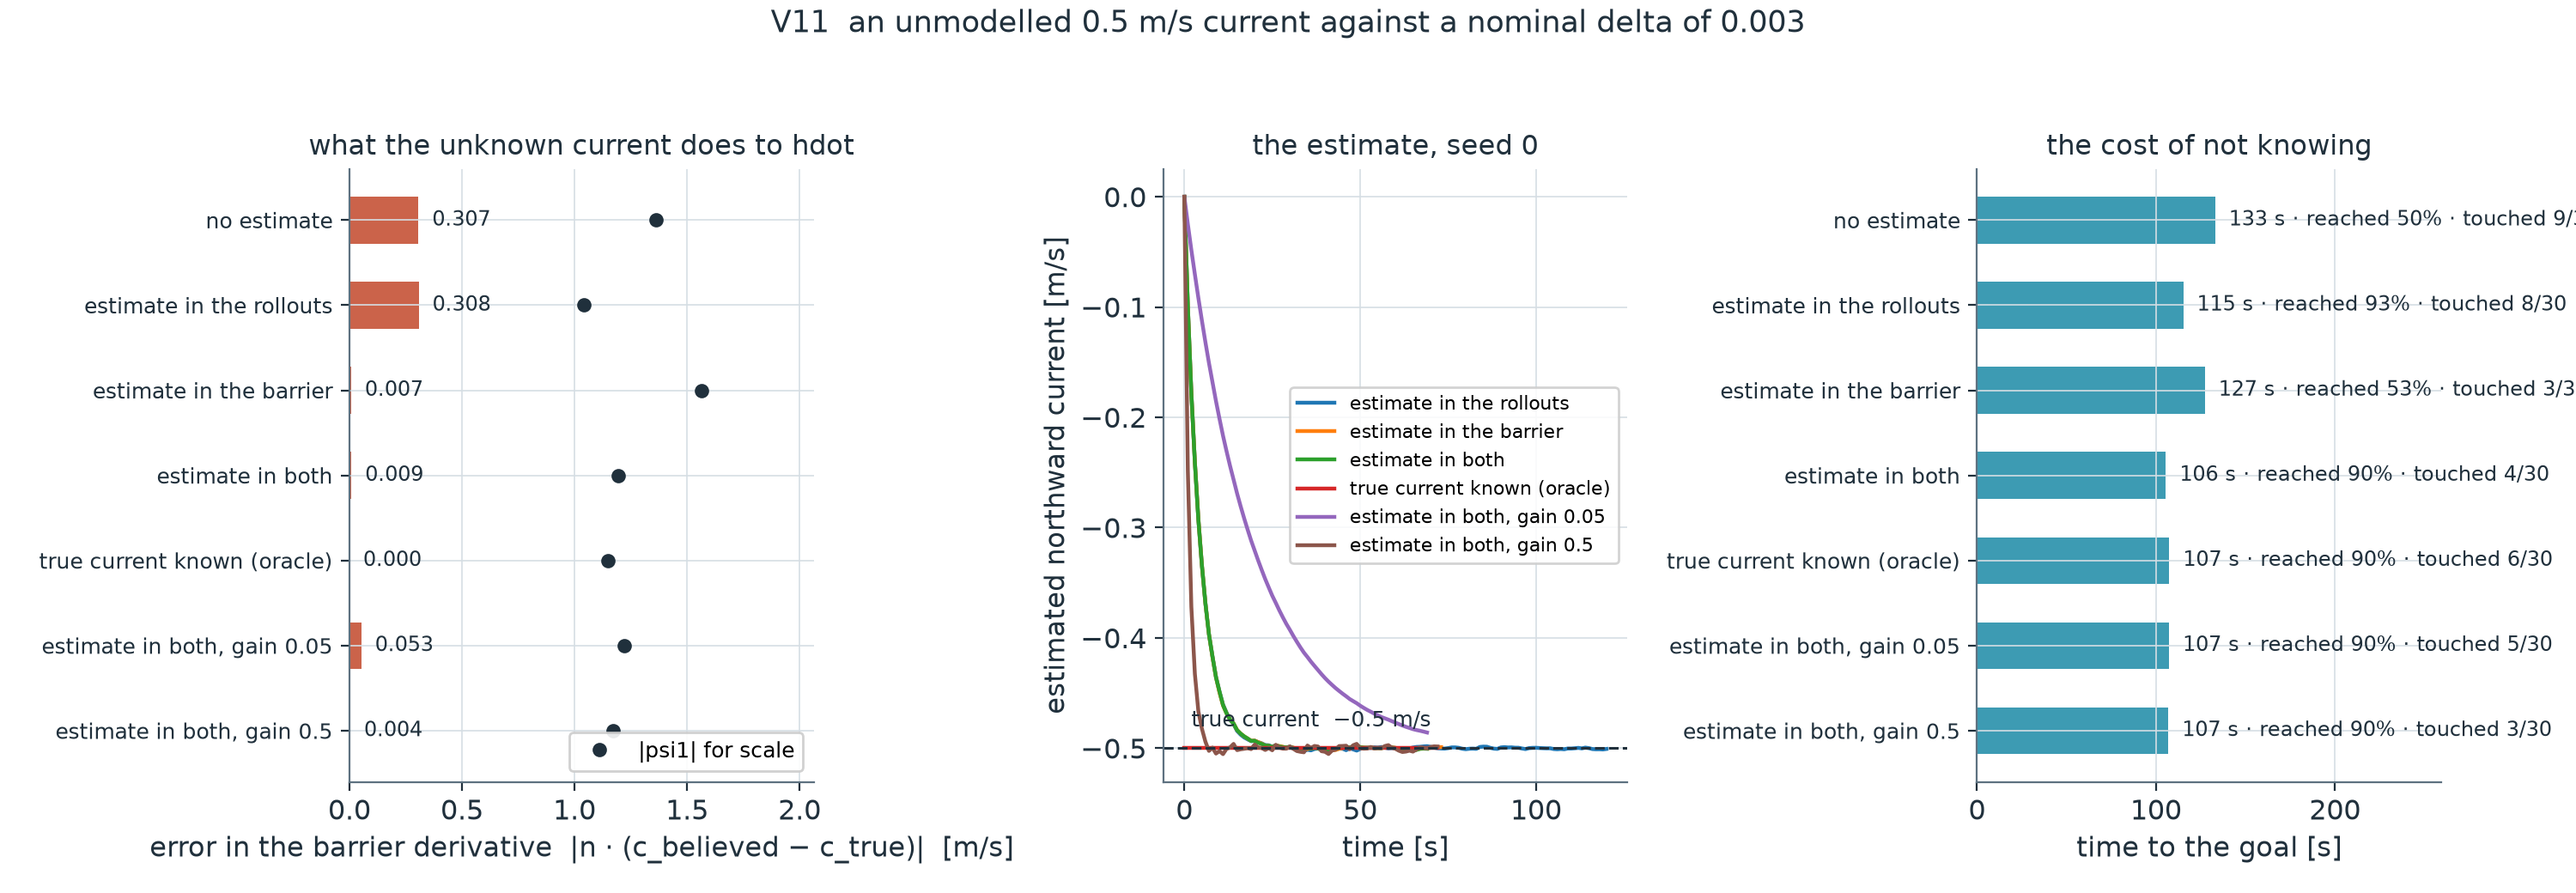
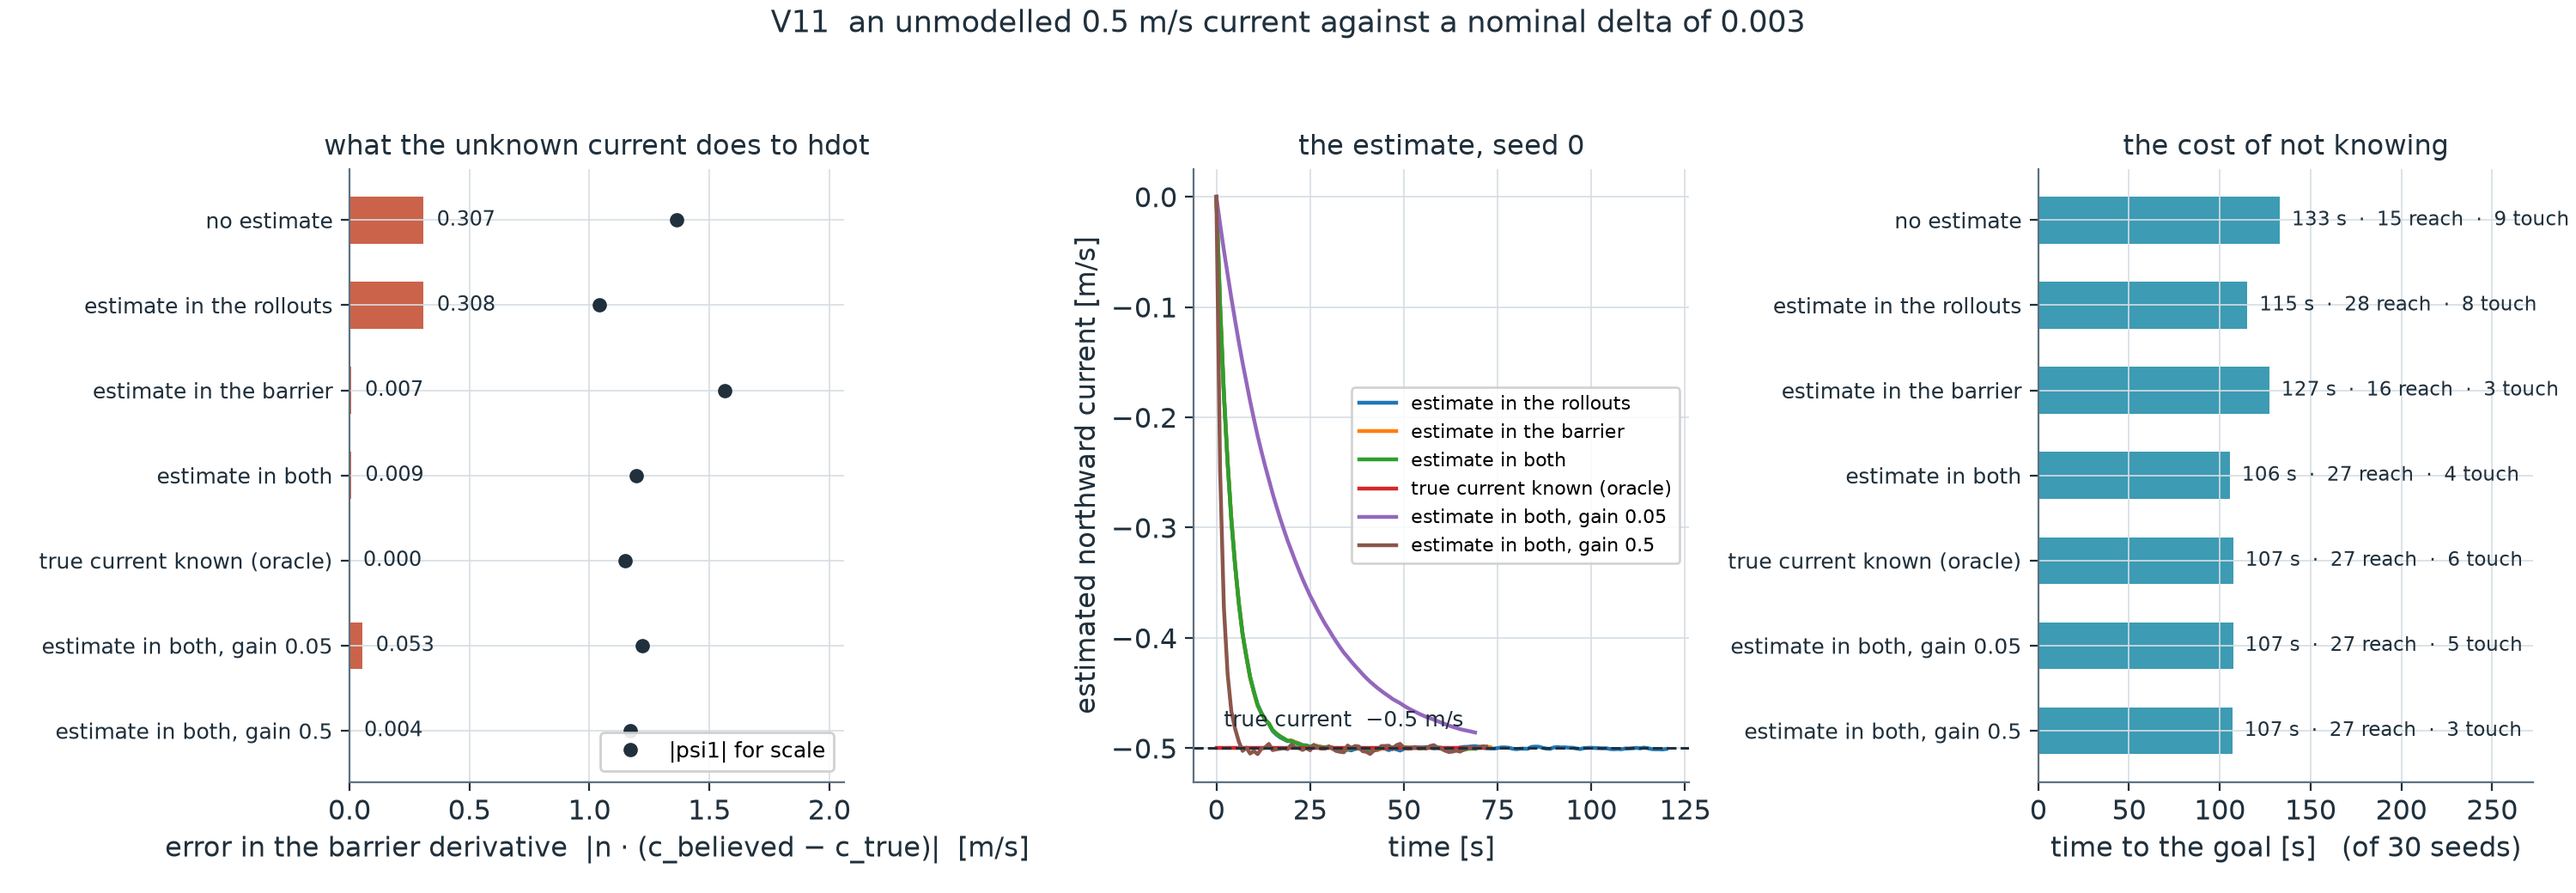
Figure legibility: nothing clipped, and the V11 panel carries reach and touch counts

diff --git a/scbf_mppi/vessel/ext/figures_ext.py b/scbf_mppi/vessel/ext/figures_ext.py
@@ -214,14 +214,14 @@ def fig_V11():
     ax.barh(ys, ttf, color=COL["mppi"], alpha=0.85, height=0.55)
     ax.set_yticks(ys)
     ax.set_yticklabels([n.split("| ", 1)[1] for n in names], fontsize=9)
-    ax.set_xlabel("time to the goal [s]")
+    ax.set_xlabel("time to the goal [s]   (of 30 seeds)")
     ax.set_title("the cost of not knowing", fontsize=11.5, color=COL["ink"])
-    ax.set_xlim(0, max(ttf) * 1.95)
+    ax.set_xlim(0, max(ttf) * 2.05)
     for y, v, n in zip(ys, ttf, names):
         s = res[n]["summary"]
         t, tot = _touched(res[n])
-        ax.text(v, y, f"  {v:.0f} s · reached {s['reached_frac']*100:.0f}% · touched {t}/{tot}",
-                fontsize=8.5, va="center", color=COL["ink"])
+        ax.text(v, y, f"  {v:.0f} s  ·  {int(round(s['reached_frac']*tot))} reach  ·  {t} touch",
+                fontsize=8.4, va="center", color=COL["ink"])
 
     fig.suptitle("V11  an unmodelled 0.5 m/s current against a nominal delta of 0.003", fontsize=12.5,
                  color=COL["ink"], y=0.99)
